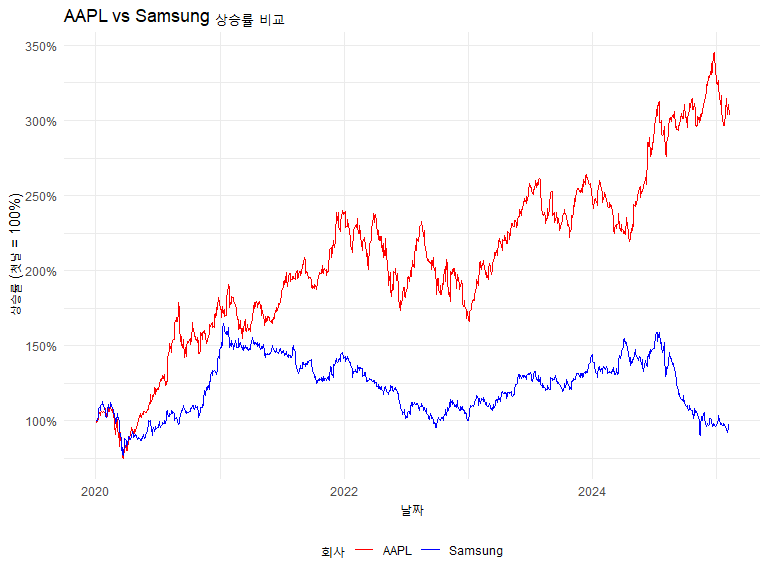
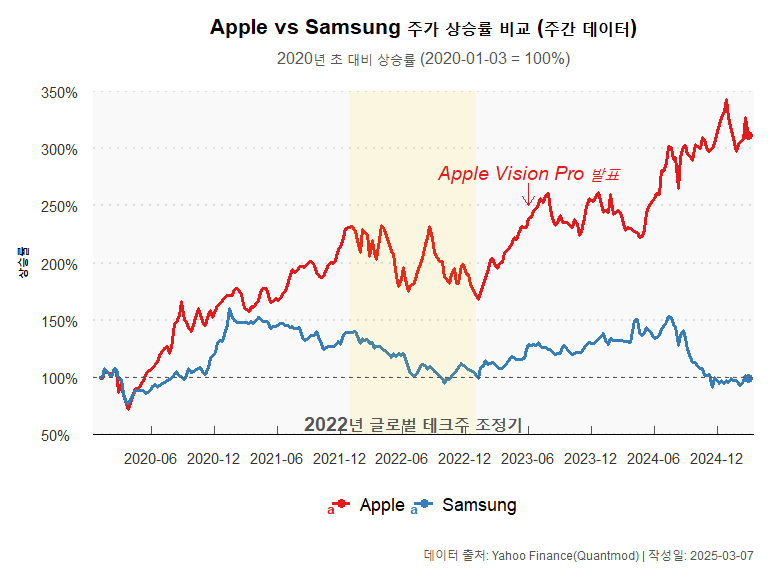
""

diff --git a/REPORT/주가-데이터-추출-및-차트그리기-R-markdown-.md b/REPORT/주가-데이터-추출-및-차트그리기-R-markdown-.md
@@ -20,6 +20,7 @@ if (!requireNamespace("quantmod", quietly = TRUE)) {
 library(quantmod)
 library(tidyverse)
 library(lubridate)
+library(ggthemes)
 theme_set(theme_grey(base_family='NanumGothic'))
 
 #열 이름 변경
@@ -47,12 +48,12 @@ head(AAPL)
 ```
 
     ##               open    high     low   close    volume adjusted
-    ## 2020-01-02 74.0600 75.1500 73.7975 75.0875 135480400 72.79601
-    ## 2020-01-03 74.2875 75.1450 74.1250 74.3575 146322800 72.08829
-    ## 2020-01-06 73.4475 74.9900 73.1875 74.9500 118387200 72.66273
-    ## 2020-01-07 74.9600 75.2250 74.3700 74.5975 108872000 72.32098
-    ## 2020-01-08 74.2900 76.1100 74.2900 75.7975 132079200 73.48435
-    ## 2020-01-09 76.8100 77.6075 76.5500 77.4075 170108400 75.04521
+    ## 2020-01-02 74.0600 75.1500 73.7975 75.0875 135480400 72.71607
+    ## 2020-01-03 74.2875 75.1450 74.1250 74.3575 146322800 72.00912
+    ## 2020-01-06 73.4475 74.9900 73.1875 74.9500 118387200 72.58290
+    ## 2020-01-07 74.9600 75.2250 74.3700 74.5975 108872000 72.24153
+    ## 2020-01-08 74.2900 76.1100 74.2900 75.7975 132079200 73.40365
+    ## 2020-01-09 76.8100 77.6075 76.5500 77.4075 170108400 74.96281
 
 <br>
 
@@ -86,7 +87,7 @@ chartSeries(AAPL['2024-07-01::2025-01-01'], name="Apple Inc. Stock Price",
             TA="addSMA(n=20); addSMA(n=50)")
 ```
 
-![](images/주가%20데이터%20추출%20및%20차트그리기(R%20markdown)/apple-chart-1.png)<!-- -->
+![](data/images/주가%20데이터%20추출%20및%20차트그리기(R%20markdown)/apple-chart-1.png)<!-- -->
 
 <br>
 
@@ -107,8 +108,8 @@ head(`005930.KS`)
 
     ##             open  high   low close   volume adjusted
     ## 2020-01-02 55500 56000 55000 55200 12993228 48494.80
-    ## 2020-01-03 56000 56600 54900 55500 15422255 48758.37
-    ## 2020-01-06 54900 55600 54600 55500 10278951 48758.37
+    ## 2020-01-03 56000 56600 54900 55500 15422255 48758.36
+    ## 2020-01-06 54900 55600 54600 55500 10278951 48758.36
     ## 2020-01-07 55700 56400 55600 55800 10009778 49021.93
     ## 2020-01-08 56200 57400 55900 56800 23501171 49900.45
     ## 2020-01-09 58400 58600 57400 58600 24102579 51481.80
@@ -125,7 +126,7 @@ addBBands()
 addSMA(5);addSMA(20, col='Yellow');addMACD()
 ```
 
-![](images/주가%20데이터%20추출%20및%20차트그리기(R%20markdown)/samsung-chart-daily-1.png)<!-- -->
+![](data/images/주가%20데이터%20추출%20및%20차트그리기(R%20markdown)/samsung-chart-daily-1.png)<!-- -->
 
 <br>
 
@@ -145,7 +146,7 @@ chartSeries(samsung_weekly['2024-01-01::2025-01-01'],
             TA = "addSMA(n=5); addSMA(n=10); addVo()")
 ```
 
-![](images/주가%20데이터%20추출%20및%20차트그리기(R%20markdown)/samsung-chart-weekly-1.png)<!-- -->
+![](data/images/주가%20데이터%20추출%20및%20차트그리기(R%20markdown)/samsung-chart-weekly-1.png)<!-- -->
 
 ``` r
 samsung_monthly <- to.monthly(`005930.KS`)
@@ -159,7 +160,7 @@ chartSeries(samsung_monthly['2020-01-01::2025-01-01'],
 addVo()
 ```
 
-![](images/주가%20데이터%20추출%20및%20차트그리기(R%20markdown)/samsung-chart-monthly-1.png)<!-- -->
+![](data/images/주가%20데이터%20추출%20및%20차트그리기(R%20markdown)/samsung-chart-monthly-1.png)<!-- -->
 
 <br>
 
@@ -170,36 +171,39 @@ addVo()
 기준으로 정규화하여 비교
 
 ``` r
-# 데이터 프레임으로 변환
-apple_df <- data.frame(date=index(AAPL), coredata(AAPL))
-samsung_df <- data.frame(date=index(`005930.KS`), coredata(`005930.KS`))
-samsung_df %>% head
+# 데이터 가져오기
+getSymbols("AAPL", from = "2020-01-01", to = Sys.Date()-1)
 ```
 
-    ##         date  open  high   low close   volume adjusted
-    ## 1 2020-01-02 55500 56000 55000 55200 12993228 48494.80
-    ## 2 2020-01-03 56000 56600 54900 55500 15422255 48758.37
-    ## 3 2020-01-06 54900 55600 54600 55500 10278951 48758.37
-    ## 4 2020-01-07 55700 56400 55600 55800 10009778 49021.93
-    ## 5 2020-01-08 56200 57400 55900 56800 23501171 49900.45
-    ## 6 2020-01-09 58400 58600 57400 58600 24102579 51481.80
+    ## [1] "AAPL"
 
 ``` r
-# 종가만 추출 후 합치기 (Apple: 5번째 열, Samsung: 5번째 열)
-apple_df_close <- apple_df %>% select(1, 5)
-samsung_df_close <- samsung_df %>% select(1, 5)
+AAPL <- myfunc(AAPL)
+
+getSymbols("005930.KS", from = "2020-01-01", to = Sys.Date())
+```
+
+    ## [1] "005930.KS"
+
+``` r
+# 주봉 데이터로 변환
+AAPL_weekly <- to.weekly(AAPL)
+AAPL_weekly <- myfunc(AAPL_weekly)
+
+samsung_weekly <- to.weekly(`005930.KS`)
+samsung_weekly <- myfunc(samsung_weekly)
+
+# 데이터 프레임으로 변환
+apple_df <- data.frame(date=index(AAPL_weekly), coredata(AAPL_weekly))
+samsung_df <- data.frame(date=index(samsung_weekly), coredata(samsung_weekly))
+
+# 종가만 추출 후 합치기
+apple_df_close <- apple_df %>% select(1, 4) # 주봉에서는 close가 4번째 열
+samsung_df_close <- samsung_df %>% select(1, 4)
 
 data <- merge(apple_df_close, samsung_df_close, by = "date")
 colnames(data) <- c("date", "AAPL", "samsung")
-str(data)
-```
 
-    ## 'data.frame':    1210 obs. of  3 variables:
-    ##  $ date   : Date, format: "2020-01-02" "2020-01-03" ...
-    ##  $ AAPL   : num  75.1 74.4 74.9 74.6 75.8 ...
-    ##  $ samsung: num  55200 55500 55500 55800 56800 58600 59500 60000 60000 59000 ...
-
-``` r
 # 날짜 형식 변환
 data$date <- as.Date(data$date)
 
@@ -208,7 +212,7 @@ data_normalized <- data %>%
    mutate(AAPL_normalized = AAPL / first(AAPL),
           samsung_normalized = samsung / first(samsung))
 
-# 데이터 정리: 길게 변환하여 두 회사 데이터를 하나의 열로 모음
+# 데이터 정리: 길게 변환
 data_long <- data_normalized %>%
    select(date, AAPL_normalized, samsung_normalized) %>%
    gather(key = "company", value = "price_normalized", -date)
@@ -223,16 +227,58 @@ data_long <- data_normalized %>%
 
 ``` r
 ggplot(data_long, aes(x = date, y = price_normalized, color = company)) +
-   geom_line() +
-   scale_color_manual(values = c("AAPL_normalized" = "red", "samsung_normalized" = "blue"),
-                      labels = c("AAPL", "Samsung")) +
-   labs(title = "AAPL vs Samsung 상승률 비교",
-        x = "날짜",
-        y = "상승률 (첫날 = 100%)",
-        color = "회사") +
-   theme_minimal() +
-   scale_y_continuous(labels = scales::percent) +
-   theme(legend.position = "bottom")
+   geom_line(size = 1.2) +
+   geom_point(data = subset(data_long, date == max(date)), 
+              aes(x = date, y = price_normalized, color = company), size = 3) +
+   scale_color_manual(values = c("AAPL_normalized" = "#E41A1C", "samsung_normalized" = "#377EB8"),
+                      labels = c("Apple", "Samsung")) +
+   labs(title = "Apple vs Samsung 주가 상승률 비교 (주간 데이터)",
+        subtitle = paste0("2020년 초 대비 상승률 (", format(min(data$date), "%Y-%m-%d"), " = 100%)"),
+        x = NULL,
+        y = "상승률",
+        color = NULL,
+        caption = "데이터 출처: Yahoo Finance(Quantmod) | 작성일: 2025-03-07") +
+   theme_economist_white() +
+   theme(
+      text = element_text(family = "NanumGothic"),
+      plot.title = element_text(face = "bold", size = 16, hjust = 0.5, margin = margin(b = 10)),
+      plot.subtitle = element_text(size = 12, hjust = 0.5, color = "#555555", margin = margin(b = 20)),
+      plot.caption = element_text(size = 9, color = "#555555", hjust = 1, margin = margin(t = 15)),
+      plot.background = element_rect(fill = "#FFFFFF", color = NA),
+      panel.background = element_rect(fill = "#F9F9F9"),
+      panel.grid.minor = element_blank(),
+      panel.grid.major = element_line(color = "#DDDDDD", linetype = "dotted"),
+      legend.position = "bottom",
+      legend.background = element_rect(fill = "#FFFFFF", color = NA),
+      legend.key = element_rect(fill = "transparent"),
+      legend.margin = margin(t = 10, b = 10),
+      axis.title.y = element_text(margin = margin(r = 10), face = "bold"),
+      axis.text = element_text(color = "#333333"),
+      axis.ticks = element_line(color = "#555555")
+   ) +
+   scale_y_continuous(labels = scales::percent_format(accuracy = 1), 
+                      breaks = seq(0, 3.5, by = 0.5),
+                      limits = c(0.5, 3.5),
+                      expand = c(0, 0)) +
+   scale_x_date(date_breaks = "6 months", 
+                date_labels = "%Y-%m",
+                expand = c(0.01, 0)) +
+   annotate("rect", xmin = as.Date("2022-01-01"), xmax = as.Date("2022-12-31"), 
+            ymin = 0.5, ymax = 3.5, alpha = 0.1, fill = "#FFD700") +
+   annotate("text", x = as.Date("2022-07-01"), y = 0.6, 
+            label = "2022년 글로벌 테크주 조정기", 
+            size = 5, fontface = "bold", color = "#555555") +
+   geom_hline(yintercept = 1, linetype = "dashed", color = "#555555", size = 0.7) +
+   # 최종 값 라벨 추가
+   geom_text(data = subset(data_long, date == max(date)),
+             aes(label = scales::percent(price_normalized, accuracy = 1), color = company),
+             hjust = -0.3, vjust = 0, fontface = "bold", size = 3.5) +
+   # 중요 이벤트 표시
+   annotate("segment", x = as.Date("2023-06-01"), xend = as.Date("2023-06-01"),
+            y = 2.7, yend = 2.5, arrow = arrow(length = unit(0.3, "cm")), color = "#E41A1C") +
+   annotate("text", x = as.Date("2023-06-01"), y = 2.8, 
+            label = "Apple Vision Pro 발표", 
+            size = 5, fontface = "italic", color = "#E41A1C")
 ```
 
-![](images/주가%20데이터%20추출%20및%20차트그리기(R%20markdown)/normalized-chart-1.png)<!-- -->
+![](data/images/주가%20데이터%20추출%20및%20차트그리기(R%20markdown)/normalized-chart-1.png)<!-- -->
